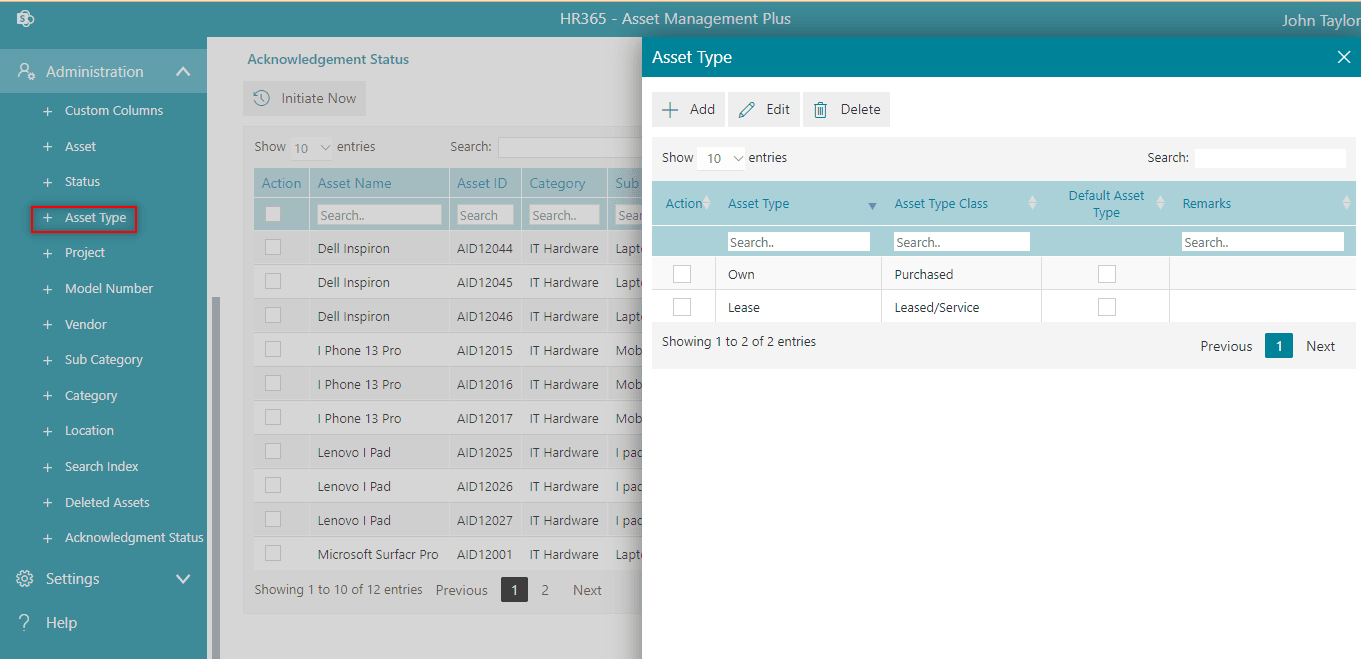
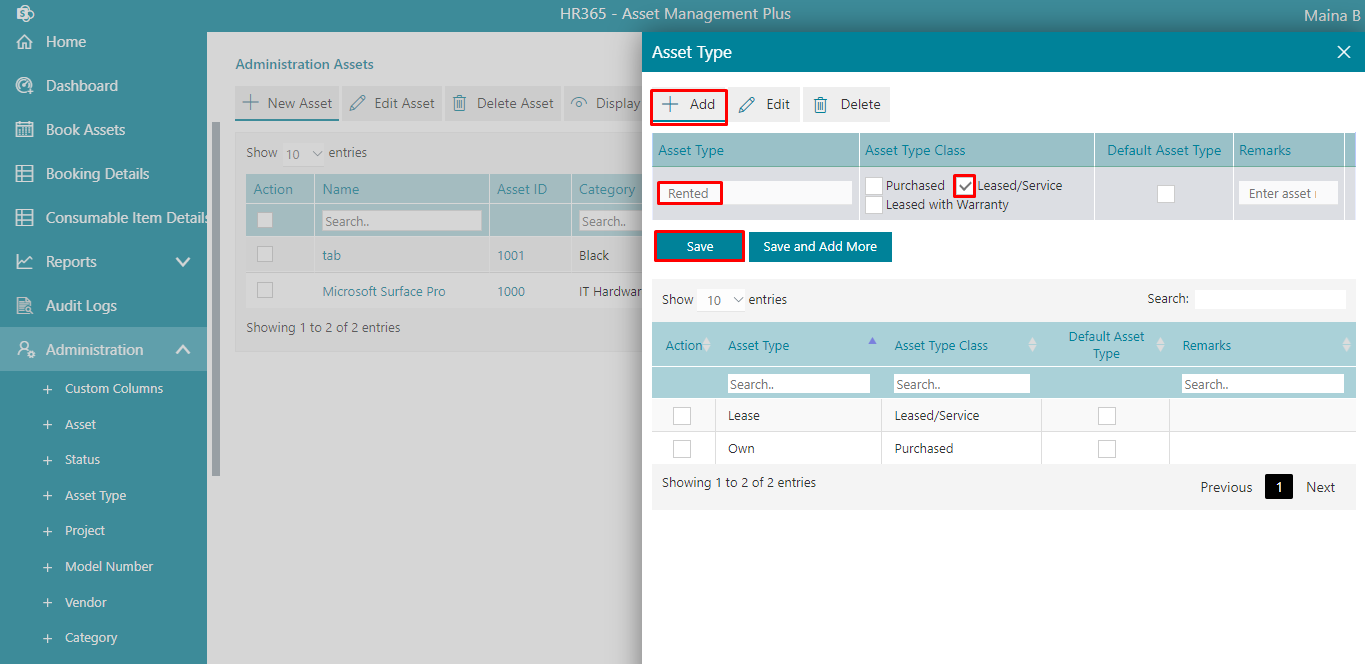
update content

diff --git a/Asset-Management/guide/Admin/Administration/Add_status/index.html b/Asset-Management/guide/Admin/Administration/Add_status/index.html
@@ -268,20 +268,54 @@
                             <li data-nav-id=../Getting-started/installation/using-app-file title=Installation class="sidelist">
                                 <h3 id="_dashboards"><a class="header-icon-link highlight" href="#"> Add Status<i class="fas fa-link"
                                         style="font-size:12px; color:lightgray;"></i></a> </h3>
-                            <br>
+                           
                             <ul class=page-list>
 
-                                You can enable fields those which are required and disable those which are not required
-                                of in add assets page. Click on asset tab, add asset page will open then click on
-                                settings gear icon at right top, column display page will open. Uncheck the check boxes
-                                for disable and check the check boxes for enable fields and finally click on save
-                                button. You are not able to disable mandatory fields like asset name, asset type and
-                                category.
-                                <br>
-                                <br>
+                              <p>  From here you can able to add status.
                                 <div><img src="status.png" onclick="openModal('status.png')" alt="" width="100%"
                                     height="auto"></div>
-                                <br>
+                              </p>
+                              <br>
+                               <p>
+                                To add the status, follow the below steps:
+                                <ol>
+                                    <li>
+                                        Click on the <b>+Add</b>.
+                                    </li>
+                                    <br>
+                                    <li>
+                                        Enter the <b>Asset Status</b> and select the checkboxes as per your requirement.
+                                    </li>
+                                    <br>
+                                    <li>
+                                        Finally click on the <b>Save</b> button.
+                                    </li>
+                                    <br>
+                                    <li>
+                                        To add multiple status, click on <b>Save and Add more</b> button.
+                                    </li>
+                                    <br>
+                                    <li>
+                                       <p> The <b>status</b> dropdown will be displayed on the <b>+New asset</b> page.</p>
+                                        <div><img src="status_.png" onclick="openModal('status_.png')" alt="" width="100%"
+                                         height="auto"></div>
+                                        </p>
+                                    </li>
+                                </ol> 
+                               </p>
+                               <br>
+                               <br>
+                               <p>
+                                   <b>Edit:</b> Click the <b>Edit Asset status</b> button, this display <b>Edit Asset Type</b> page. Update the entries and click on <b>Update</b> button.
+                               </p>
+                             
+                               <p>
+                                   <b>Delete:</b>Click the <b>delete</b> button, this displays a dialog box. Click Yes button.
+                               </p>
+                               <p>
+                             
+
+
                                
 
 

diff --git a/Asset-Management/guide/Admin/Administration/Add_asset_type/index.html b/Asset-Management/guide/Admin/Administration/Add_asset_type/index.html
@@ -269,14 +269,54 @@
                             <li data-nav-id=../Getting-started/installation/using-app-file title=Installation class="sidelist">
                                 <h3 id="_dashboards"><a class="header-icon-link highlight" href="#">Add Asset Type<i class="fas fa-link"
                                         style="font-size:12px; color:lightgray;"></i></a> </h3>
-                            <br>
+                    
                             <ul class=page-list>
 
-                                
+                                <p>  From here you can able to add asset type.
+                                    <div><img src="asset_type.png" onclick="openModal('asset_type.png')" alt="" width="100%"
+                                        height="auto"></div>
+                              </p>
                                 <br>
-                                <div><img src="asset_type.png" onclick="openModal('asset_type.png')" alt="" width="100%"
-                                    height="auto"></div>
-                                <br>
+                                    <p>
+                                     To add the asset type, follow the below steps:
+                                     <ol>
+                                         <li>
+                                             Click on the <b>+Add</b>.
+                                         </li>
+                                         <br>
+                                         <li>
+                                             Enter the <b>Asset Type</b> and select the checkboxes as per your requirement.
+                                         </li>
+                                         <br>
+                                         <li>
+                                             Finally click on the <b>Save</b> button.
+                                         </li>
+                                         <br>
+                                         <li>
+                                             To add multiple status, click on <b>Save and Add more</b> button.
+                                         </li>
+                                         <br>
+                                         <li>
+                                            <p>
+                                                The <b>Asset Type</b> dropdown will be displayed on the <b>+New asset</b> page.
+                                            </p> 
+                                            <div><img src="asset_type_.png" onclick="openModal('asset_type_.png')" alt="" width="100%"
+                                             height="auto"></div>
+                                           
+                                         </li>
+                                     </ol> 
+                                    </p>
+                                    <br>
+                                    <p>
+                                        <b>Edit:</b> Click the <b>Edit</b> button, this display <b>Edit Asset Type</b> page. Update the entries and click on <b>Update</b> button.
+                                    </p>
+                                  
+                                    <p>
+                                        <b>Delete:</b>Click the <b>delete</b> button, this displays a dialog box. Click Yes button.
+                                    </p>
+                                    <p>
+                                  
+                                   
                                
 
 
